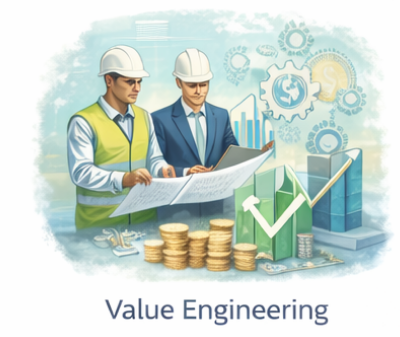
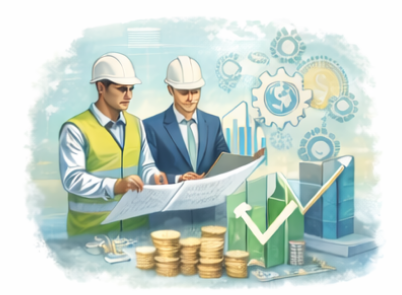
Add images for all services (s2-s18)

diff --git a/src/lib/constants.ts b/src/lib/constants.ts
@@ -32,6 +32,21 @@ export const SERVICE_ICONS: Record<string, string> = {
 export const SERVICE_IMAGES: Record<string, string> = {
   s2: '/images/services/value-engineering.png',
   s3: '/images/services/real-estate-cost-studies.png',
+  s4: '/images/services/cost-control.png',
+  s5: '/images/services/real-estate-marketing.png',
+  s6: '/images/services/business-development.png',
+  s7: '/images/services/economic-consultations.png',
+  s8: '/images/services/quantity-surveying.png',
+  s9: '/images/services/market-study.png',
+  s10: '/images/services/investment-portfolio.png',
+  s11: '/images/services/land-selection.png',
+  s12: '/images/services/marketing-plans.png',
+  s13: '/images/services/eng-supervision.png',
+  s14: '/images/services/real-estate-services.png',
+  s15: '/images/services/real-estate-valuation.png',
+  s16: '/images/services/database-building.png',
+  s17: '/images/services/real-estate-law.png',
+  s18: '/images/services/performance-development.png',
 };
 
 export const SERVICE_KEYS = [
